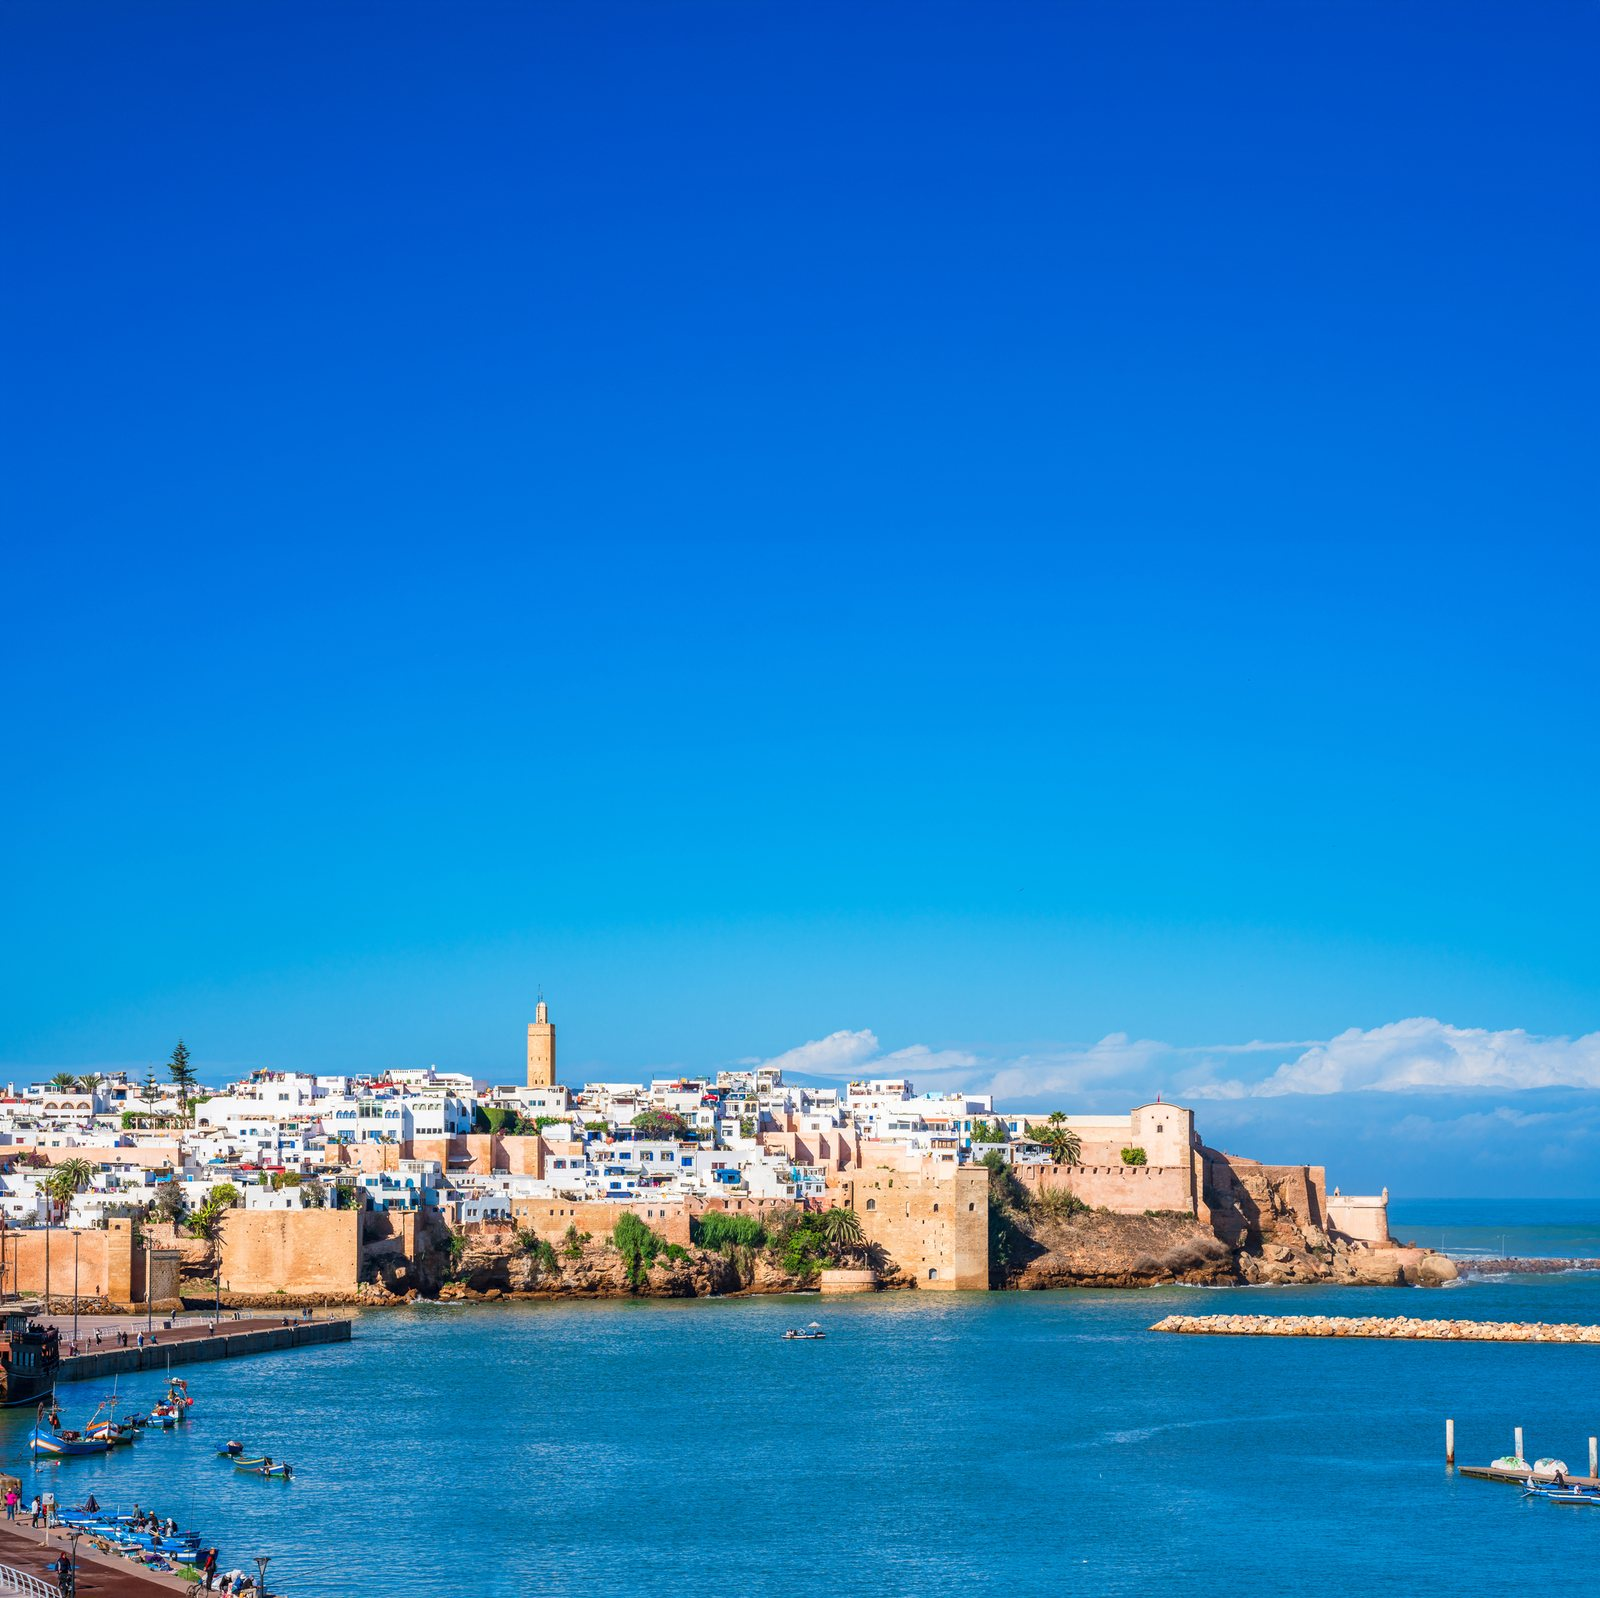
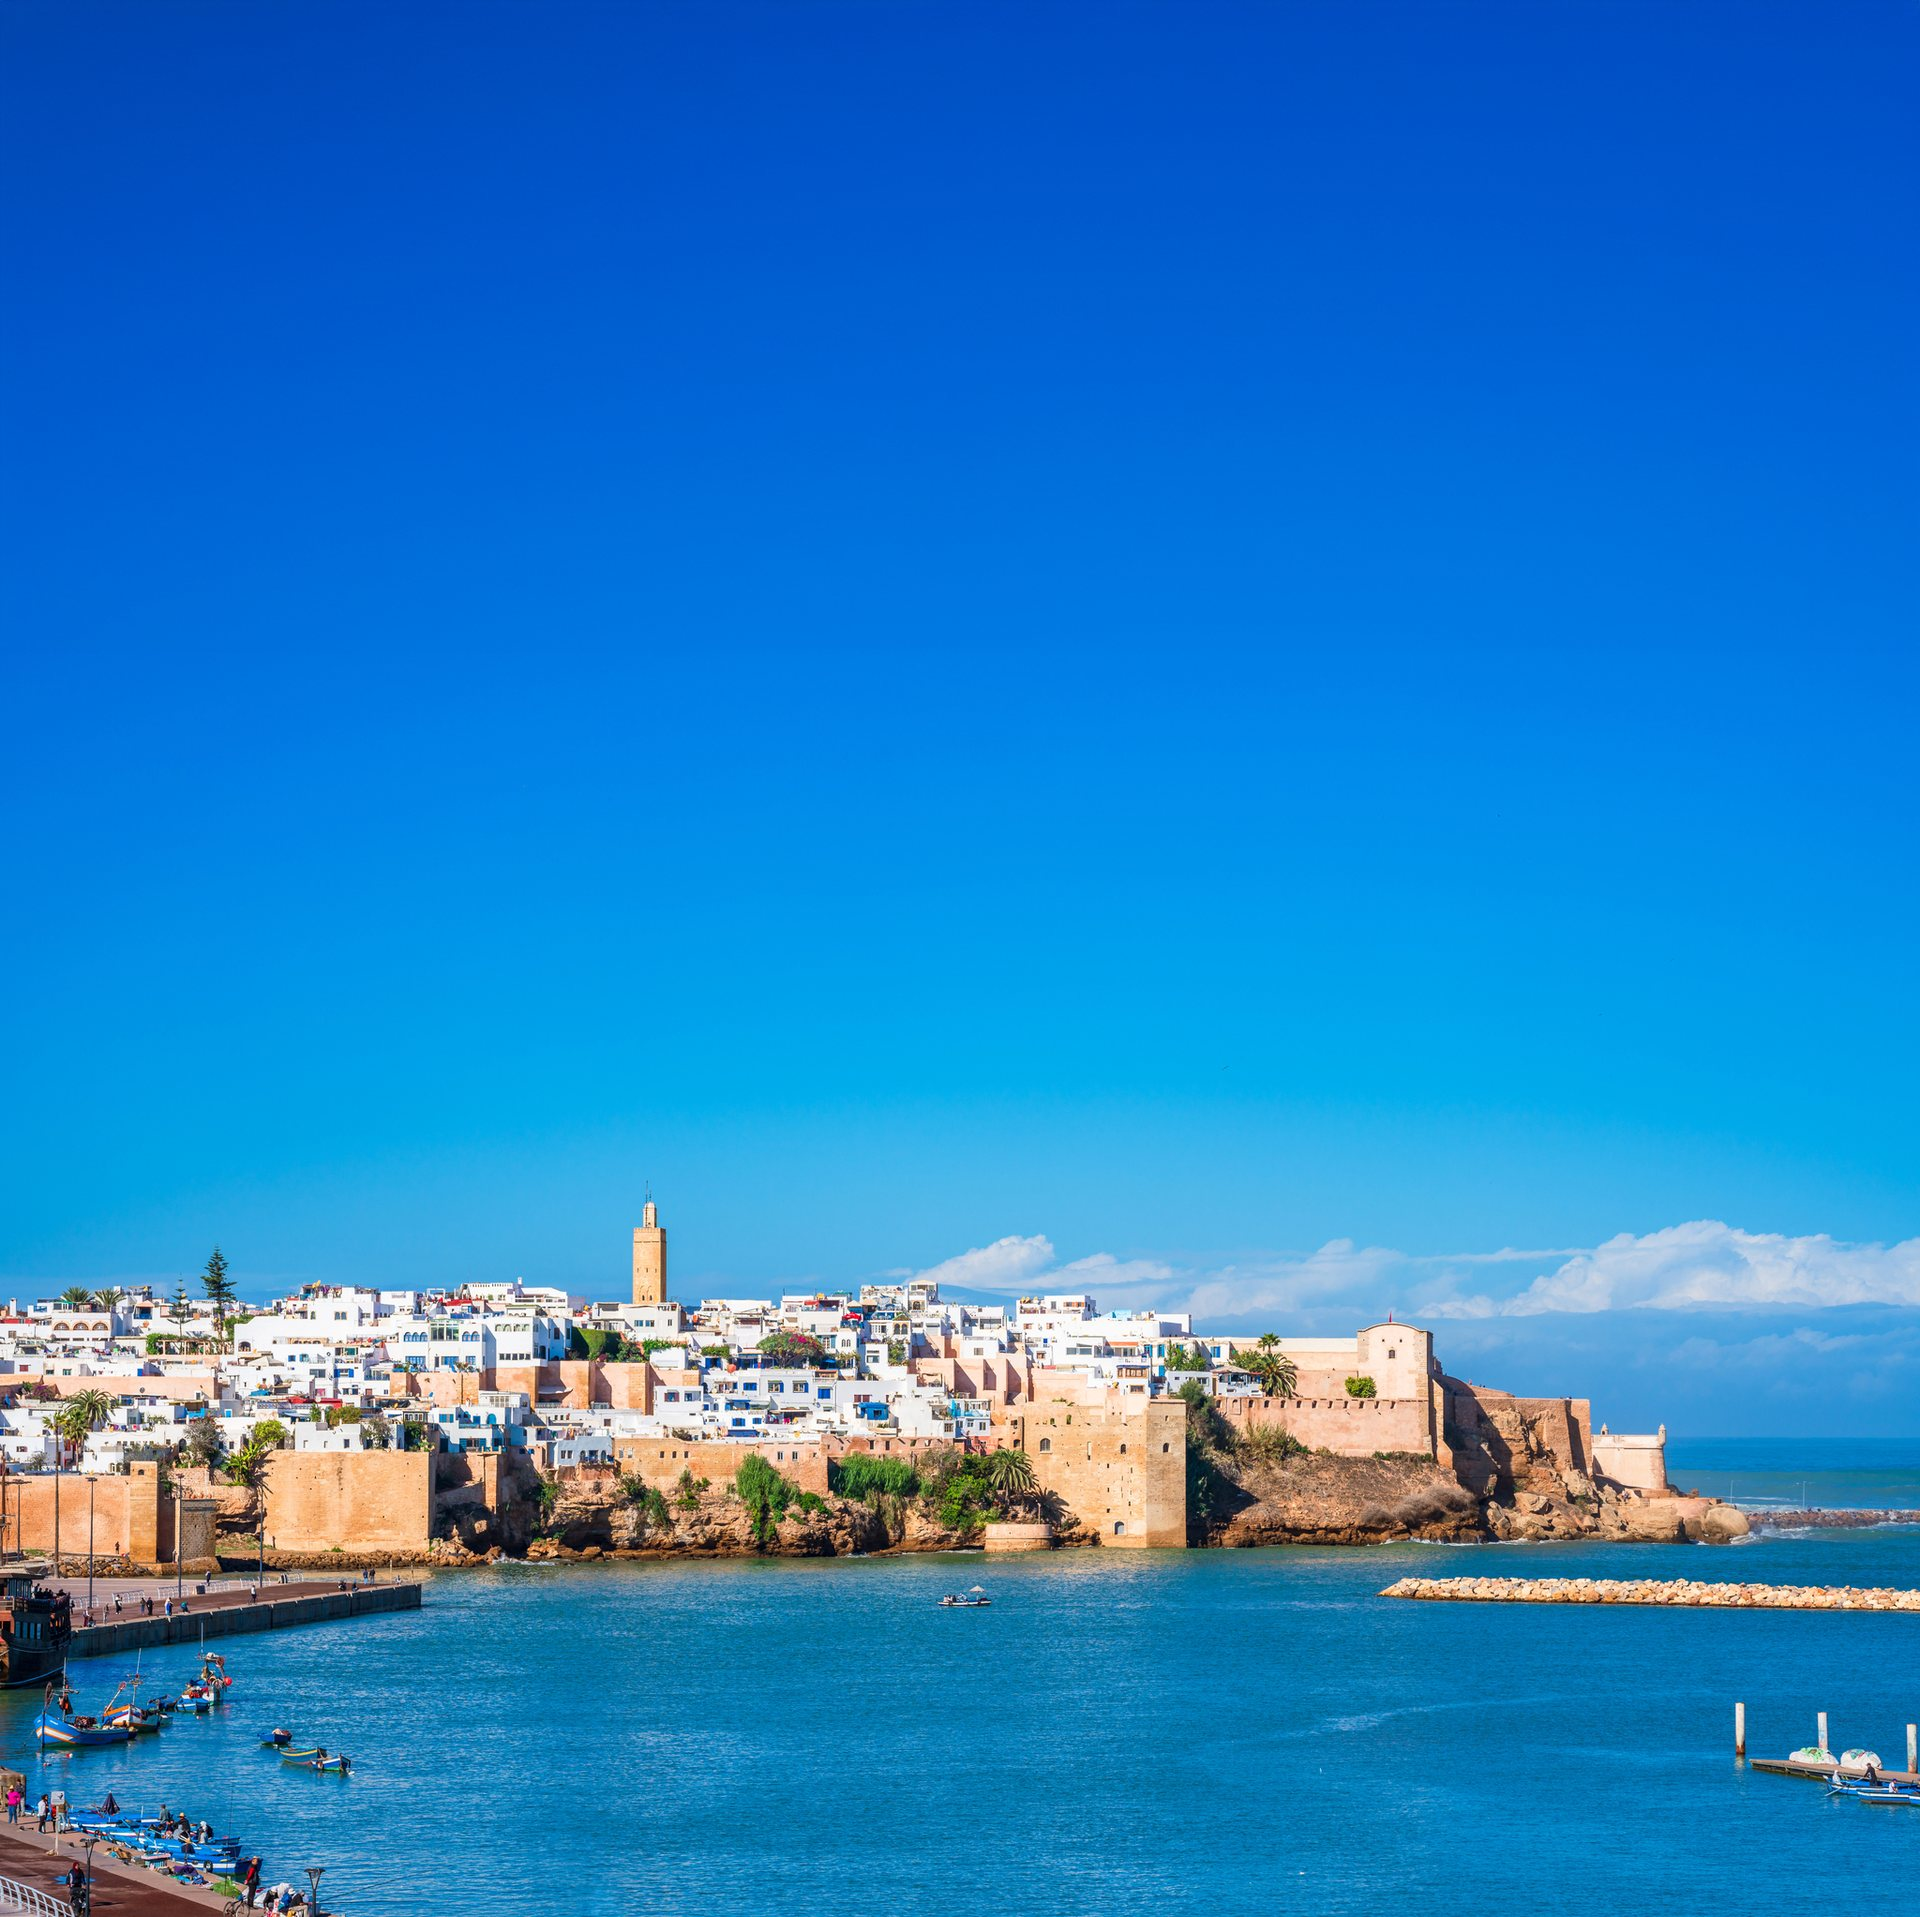
Photos en fond de fold sur Sécurité et Ressources, Chefchaouen sur À propos
Le fold photo de PageHero accepte un point focal par page. Sécurité prend
le ciel aux oiseaux (derrière le schéma d'isolation), Ressources la Kasbah
de Rabat recadrée en bande, et la ruelle de Chefchaouen accompagne le récit
de la page À propos. Voile un peu plus dense et ombre portée sur le texte.

Claude-Session: https://claude.ai/code/session_01EMoXiJQBkDb6MLXVzRtz5q

Changed region(s): [[0.0625, 0.9506, 0.125, 0.9812], [0.4375, 0.6746, 0.4688, 0.7053], [0.125, 0.9812, 0.1562, 1.0]]

diff --git a/content/fr/pages.ts b/content/fr/pages.ts
@@ -506,6 +506,8 @@ export const securite: SiteContent["securite"] = {
     "Cloisonnement appliqué dans l'application et dans la base (RLS), chiffrement en transit et au repos, sauvegardes restaurées pour de vrai, traitement déclaré à la CNDP.",
   crumb: "SÉCURITÉ",
   title: "Deux couches d'isolation, aucune confiance accordée à l'autre.",
+  heroImage: "/images/maroc/ciel-oiseaux.jpg",
+  heroImageAlt: "Vol d'oiseaux dans un ciel bleu, à contre-jour",
   lede: "Le cloisonnement entre copropriétés est appliqué deux fois : dans l'application, et dans la base de données elle-même. Les deux doivent être vraies en même temps — l'une n'est jamais une excuse pour relâcher l'autre.",
   facts: [
     { k: "Hébergement", v: "Union européenne" },
@@ -593,6 +595,8 @@ export const ressources: SiteContent["ressources"] = {
     "Guides du Décret 2.23.700, explication des 12 annexes, checklist de clôture, modèles de convocation et de PV, calculateur de catégorie. En accès libre, FR et AR.",
   crumb: "RESSOURCES",
   title: "Ce que la loi demande, expliqué par ceux qui l'ont codé.",
+  heroImage: "/images/maroc/rabat-kasbah-large.jpg",
+  heroImageAlt: "Kasbah des Oudayas à Rabat, vue depuis le Bouregreg",
   lede: "Guides, modèles et outils, en accès libre. Utiles même si vous ne devenez jamais client.",
   pillarKicker: "GUIDE PILIER · MIS À JOUR SEPT. 2026",
   pillarTitle: "Le Décret 2.23.700, lu ligne par ligne pour un syndic",
@@ -743,8 +747,8 @@ export const apropos: SiteContent["apropos"] = {
   ],
   heroImage: "/images/maroc/casablanca-coucher.jpg",
   heroImageAlt: "Toits de Casablanca au coucher du soleil, la mosquée Hassan II à l'horizon",
-  image: "/images/maroc/rabat-kasbah.jpg",
-  imageAlt: "Kasbah des Oudayas à Rabat, vue depuis le Bouregreg",
+  image: "/images/maroc/chefchaouen-ruelle.jpg",
+  imageAlt: "Ruelle blanche et bleue d'une médina marocaine",
   paras: [
     "SyndicUp est né d'une clôture d'exercice ratée. Un immeuble de 48 lots à Casablanca, un syndic bénévole consciencieux, trois classeurs, un tableur — et l'impossibilité de produire, en janvier, des comptes que personne n'avait tenus en mars.",
     "Le Décret 2.23.700 a changé la nature du problème. Il ne demande plus de la bonne volonté, il demande des documents. Un logiciel qui n'est pas capable de les produire depuis les écritures de l'année n'est pas un logiciel de syndic : c'est un cahier avec une interface.",

diff --git a/components/page-blocks.tsx b/components/page-blocks.tsx
@@ -40,7 +40,7 @@ export function PageHero({
   /** L'écran illustré à droite ; sans scène, le fold reste centré. */
   scene?: SceneData;
   /** Une vraie photo en fond de tout le fold, le texte passe en blanc (fold centré uniquement). */
-  photo?: { image: string; alt: string };
+  photo?: { image: string; alt: string; position?: string };
   email?: { label: string; placeholder: string; cta: string };
   /** Trois ou quatre faits courts sous le chapô : « 12 / 12 annexes », « FR & AR »… */
   facts?: { k: string; v: string }[];
@@ -52,7 +52,7 @@ export function PageHero({
     <div
       className={`relative overflow-hidden ${
         onPhoto
-          ? "bg-ink text-white [&_.crumb]:text-white/70 [&_.crumb_a]:text-white/70 [&_.crumb_a:hover]:text-white [&_.h-page]:text-white [&_.lede]:text-white/85 [&_.kicker]:!text-lime [&_dt]:text-white/70 [&_dd]:!text-white"
+          ? "bg-ink text-white [text-shadow:0_1px_24px_rgb(0_0_0_/_0.35)] [&_.crumb]:text-white/70 [&_.crumb_a]:text-white/70 [&_.crumb_a:hover]:text-white [&_.h-page]:text-white [&_.lede]:text-white/85 [&_.kicker]:!text-lime [&_dt]:text-white/70 [&_dd]:!text-white"
           : "bg-[radial-gradient(90%_60%_at_20%_-10%,#e6efea_0%,transparent_55%),radial-gradient(90%_60%_at_85%_-5%,#e4eeef_0%,transparent_50%),linear-gradient(180deg,#eceee7_0%,#ecebe4_60%)]"
       }`}
     >
@@ -65,9 +65,10 @@ export function PageHero({
             priority
             sizes="100vw"
             quality={92}
-            className="object-cover object-[center_40%]"
+            className="object-cover"
+            style={{ objectPosition: photo.position ?? "center 40%" }}
           />
-          <div className="absolute inset-0 bg-[linear-gradient(180deg,rgb(16_18_22_/_0.55)_0%,rgb(16_18_22_/_0.35)_45%,rgb(16_18_22_/_0.7)_100%)]" />
+          <div className="absolute inset-0 bg-[linear-gradient(180deg,rgb(16_18_22_/_0.6)_0%,rgb(16_18_22_/_0.42)_45%,rgb(16_18_22_/_0.72)_100%)]" />
         </>
       ) : (
         <HeroBackdrop />

diff --git a/app/[locale]/a-propos/page.tsx b/app/[locale]/a-propos/page.tsx
@@ -53,7 +53,7 @@ export default async function AboutPage({ params }: { params: Promise<{ locale: 
             ))}
           </div>
           <div className="relative min-h-[360px] overflow-hidden rounded-2xl">
-            <Image src={a.image} alt={a.imageAlt} fill sizes="(max-width: 1024px) 100vw, 520px" className="object-cover object-[center_78%]" />
+            <Image src={a.image} alt={a.imageAlt} fill sizes="(max-width: 1024px) 100vw, 520px" className="object-cover object-[center_30%]" />
           </div>
         </div>
       </section>

diff --git a/content/types.ts b/content/types.ts
@@ -653,6 +653,8 @@ export interface SiteContent {
     metaDescription: string;
     crumb: string;
     title: string;
+    heroImage: string;
+    heroImageAlt: string;
     lede: string;
     facts: { k: string; v: string }[];
     principlesKicker: string;
@@ -675,6 +677,8 @@ export interface SiteContent {
     metaDescription: string;
     crumb: string;
     title: string;
+    heroImage: string;
+    heroImageAlt: string;
     lede: string;
     pillarKicker: string;
     pillarTitle: string;

diff --git a/app/[locale]/ressources/page.tsx b/app/[locale]/ressources/page.tsx
@@ -46,6 +46,7 @@ export default async function ResourcesPage({
         kicker={r.crumb}
         title={r.title}
         lede={r.lede}
+        photo={{ image: r.heroImage, alt: r.heroImageAlt, position: "center 0%" }}
       />
 
       {/* ── Le guide pilier ─────────────────────────────────────────────── */}

diff --git a/app/[locale]/securite/page.tsx b/app/[locale]/securite/page.tsx
@@ -67,6 +67,7 @@ export default async function SecurityPage({ params }: { params: Promise<{ local
         kicker={s.crumb}
         title={s.title}
         lede={s.lede}
+        photo={{ image: s.heroImage, alt: s.heroImageAlt, position: "center 30%" }}
         facts={s.facts}
       >
         <div className="mt-10">
